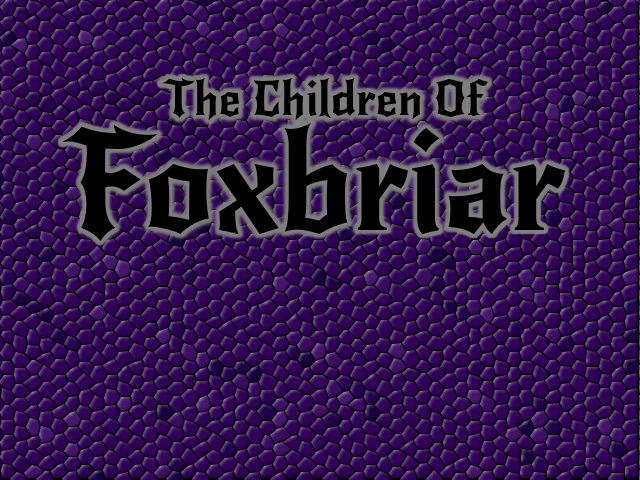
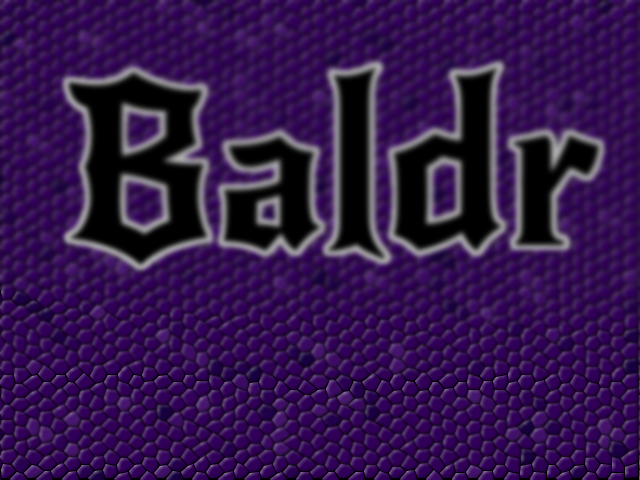
fixed music and intro loop

diff --git a/menu.cpp b/menu.cpp
@@ -49,14 +49,16 @@ void mainMenu::firstLoad()
     int ALPHA = 0;
     while ( ALPHA <= 255 )
     {
+        cout << "alpha is " << ALPHA << endl;
         SDL_RenderClear(renderer);
+        SDL_SetTextureBlendMode(background, SDL_BLENDMODE_BLEND);
         SDL_SetTextureAlphaMod(background, ALPHA);
         SDL_RenderCopy(renderer, background, NULL, NULL);
         SDL_RenderPresent(renderer);
         ALPHA += 5;
         //SDL_Delay(2);
-        menuMusic(true);
     }
+    menuMusic(true);
 }
 
 int mainMenu::load()

diff --git a/sdlGraphics.cpp b/sdlGraphics.cpp
@@ -17,7 +17,7 @@ SDLGraphics::SDLGraphics(int screenWidth, int screenHeight, const char* windowTi
     window = SDL_CreateWindow(windowTitle, SDL_WINDOWPOS_CENTERED, SDL_WINDOWPOS_CENTERED, screenWidth, screenHeight, SDL_WINDOW_SHOWN);
 
     renderer = SDL_CreateRenderer(window, -1, 0);
-    Mix_OpenAudio(44100, MIX_DEFAULT_FORMAT, 2, 2048);
+    Mix_OpenAudio(44100, MIX_DEFAULT_FORMAT, 2, 4096);
     TTF_Init();
 }
 
